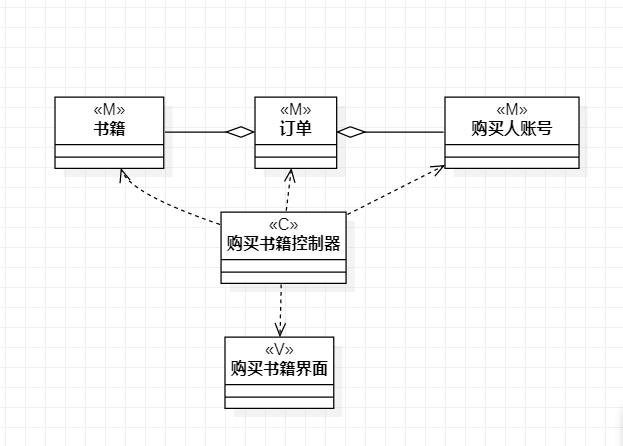
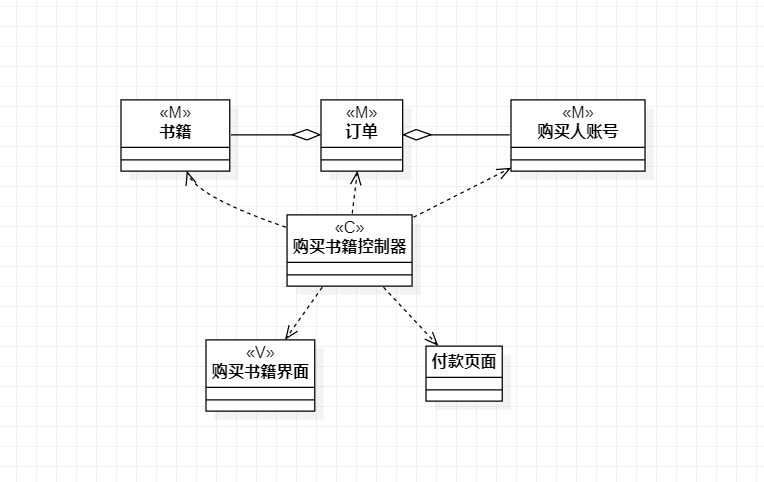
实验六

diff --git a/students/1714080902113/lab2.md b/students/1714080902113/lab2.md
@@ -48,13 +48,13 @@
 
    + | 用例编号 | UC01                                            | 备注                 |
      | -------- | :---------------------------------------------- | -------------------- |
-     | 用例名称 | 录入书籍信息                                           |                      |
+     | 用例名称 | 录入书籍                                           |                      |
      | 前置条件 | 管理员登录系统                              | *可选*               |
      | 后置条件 |                                                 | *可选*               |
      | 基本流程 | 1. 管理员点击录入书籍信息                        | *用例执行成功的步骤* |
-     | ~        | 2. 系统显示“出售人账号”“出售人姓名”，“出售价格”，“ISDN码”，“作者”，“出版社”文本框及输入文本框以及“确定”，“取消”按钮                        |                      |
+     | ~        | 2. 系统进入添加书籍页面                        |                      |
      | ~        | 3. 管理员进行填写，点击“确定”按钮              |                      |
-      | ~        | 4. 系统判断书籍信息填写完成             |                      |
+     | ~        | 4. 系统判断书籍信息填写完成             |                      |
      | ~        | 5. 系统生成本书的序号，保存序号和书籍信息      |                      |
      | ~        | 6. 系统显示提交完成文本框      |                      |
      | 扩展流程 | 3.1 管理员点击“取消”按钮，结束用例 | *用例执行失败*       |
@@ -66,12 +66,11 @@
      | -------- | :-------------------------------- | -------------------- |
      | 用例名称 | 购买书籍                             |                      |
      | 前置条件 | 购书人登录系统                | *可选*               |
+     | ~         | 系统有可销售书籍，进入购书页面                |              |
      | 后置条件 |                                   | *可选*               |
-     | 基本流程 | 1. 登录完成后，查询所有可销售的书籍，进入购书主界面    | *用例执行成功的步骤* |
-     | ~        | 2. 选择书籍购买，点击“购买”按钮，进入付款页面          |                      |
-     | ~        | 3. 用户付款，点击付款按钮 |
-     | ~        | 4. 确认用户已付款，系统生成订单         |      |
-     | ~        | 5. 显示"订单码"，"购书人姓名"和"出售人姓名"的订单信息，并显示“截图保存”的文字            |                      |
-     | 扩展流程 | 1.1 系统当前无任何可销售书籍，结束用例  | *用例执行失败*       |
-     | ~        | 2.1 用户没有想购买的书籍，选择退出，结束用例  |
-     | ~        | 3.1 购书人点击“取消付款”按钮，结束用例  |
+     | 基本流程 | 1. 选择书籍购买，点击“购买”按钮，进入付款页面   | *用例执行成功的步骤* |
+     | ~        | 2. 用户付款，点击付款按钮        |                      |
+     | ~        | 3. 确认用户已付款，系统生成订单   |
+     | ~        | 4. 显示"订单码"，"购书人姓名"和"出售人姓名"的订单信息，并显示“截图保存”的文字     |      |
+     | 扩展流程 | 1.1 用户没有想购买的书籍，选择退出，结束用例   | *用例执行失败*       |
+     | ~        | 2.1 购书人点击“取消付款”按钮，结束用例 |

diff --git a/students/1714080902113/lab6.md b/students/1714080902113/lab6.md
@@ -1,0 +1,32 @@
+# 实验六：交互建模
+
+## 一、实验目标
+
+1.理解系统交互；  
+2.掌握UML顺序图的画法；  
+3.掌握对象交互的定义与建模方法。
+
+## 二、实验内容
+
+1.根据用例模型和类模型，确定功能所涉及的系统对象；  
+2.在顺序图上画出参与者（对象）；  
+3.在顺序图上画出消息（交互）；
+
+## 三、实验步骤
+
+1.分析用例规划提炼出参与者  
+2.分析类图提炼出其他参与者  
+3.在StarUML画出各个参与者
+4.分析活动图，找出各参与者之间的消息  
+5.建立各个参与者之间的消息关系（Lab6_SequenceDiagram1、Lab6_SequenceDiagram2）
+
+## 四、实验结果
+
+1.发布任务顺序图
+
+图1：录入书籍
+![第一张顺序图](./lab_06_SequenceDiagram1.jpg)  
+
+
+图2.购买书籍
+![第二张顺序图](./lab_06_SequenceDiagram2.jpg)  

diff --git a/students/1714080902113/lab1.md b/students/1714080902113/lab1.md
@@ -3,11 +3,14 @@
 
 ##实验目标
 
-使用git，创建建模文档，将图片插入建模文档
-
+1. 熟悉GitHub实验过程
+2. 安装与使用StarUML
 
 ##实验内容
 
+1. 使用git
+2. 创建建模文档
+3. 将图片插入建模文档
 
 ##实验结果
 
